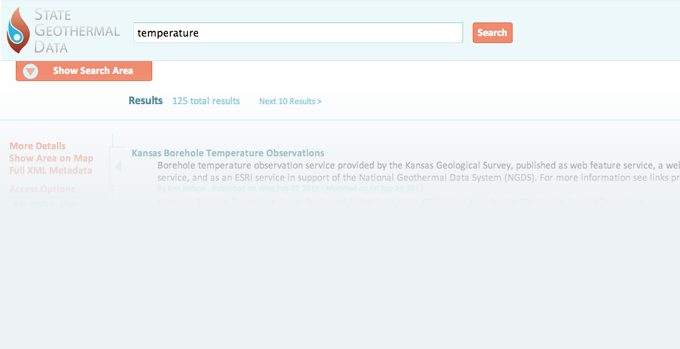
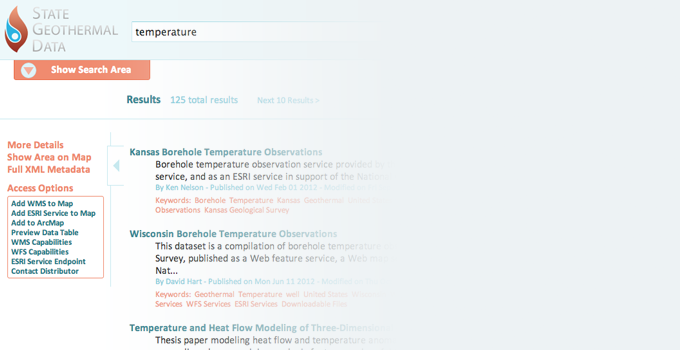
Homepage adjustments

diff --git a/ui/static/css/home.less b/ui/static/css/home.less
@@ -29,20 +29,29 @@
   a {
     text-decoration: none;
     .highlight();
+    &:hover {
+      text-decoration: underline;
+    }
   }
 }
 
 #sgd-search {
   text-decoration: none;
+  position: relative;
   img {
     border-radius: @block-radius;
     border: 1px solid @block-border-color;
   }
   #search-link-text {
+    text-align: left;
     color: @footer-color;
     font-size: 16px;
-    width: 680px;
-    position: relative;
-    top: -120px;
+    position: absolute;
+    width: 300px;
+    top: -330px;
+    left: 380px;
+  }
+  p {
+    margin-bottom: 25px;
   }
 }
